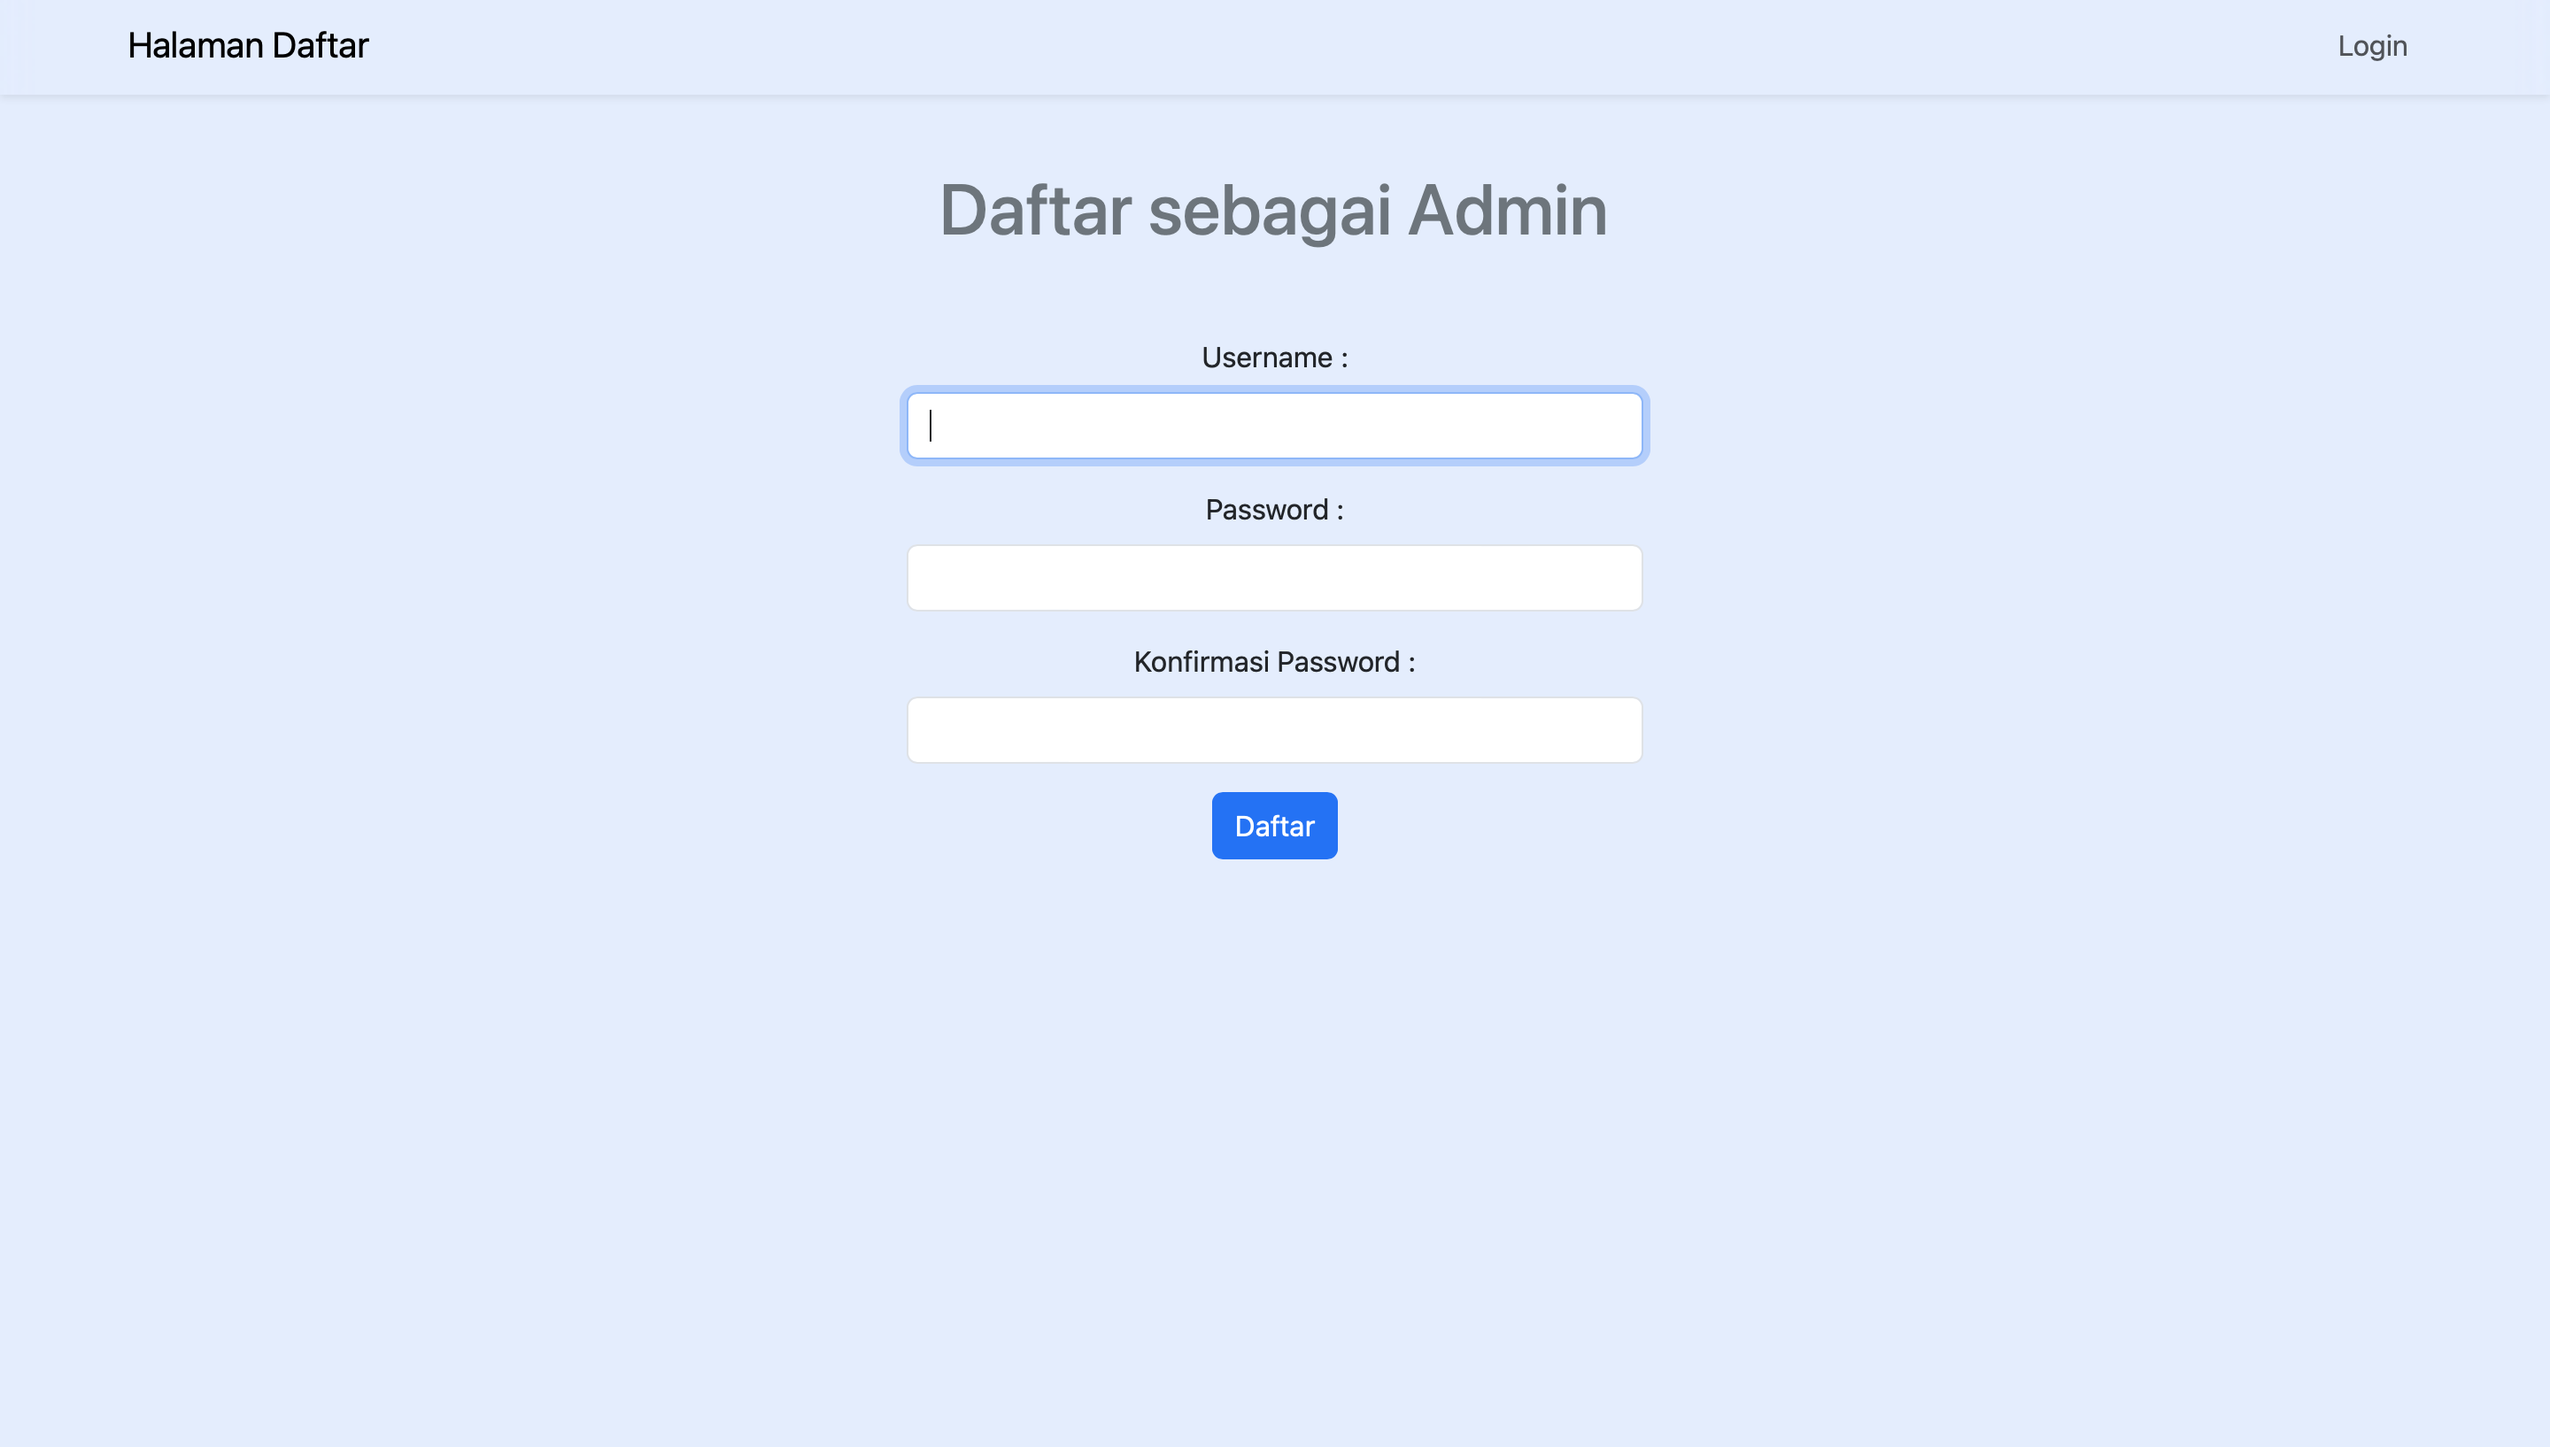
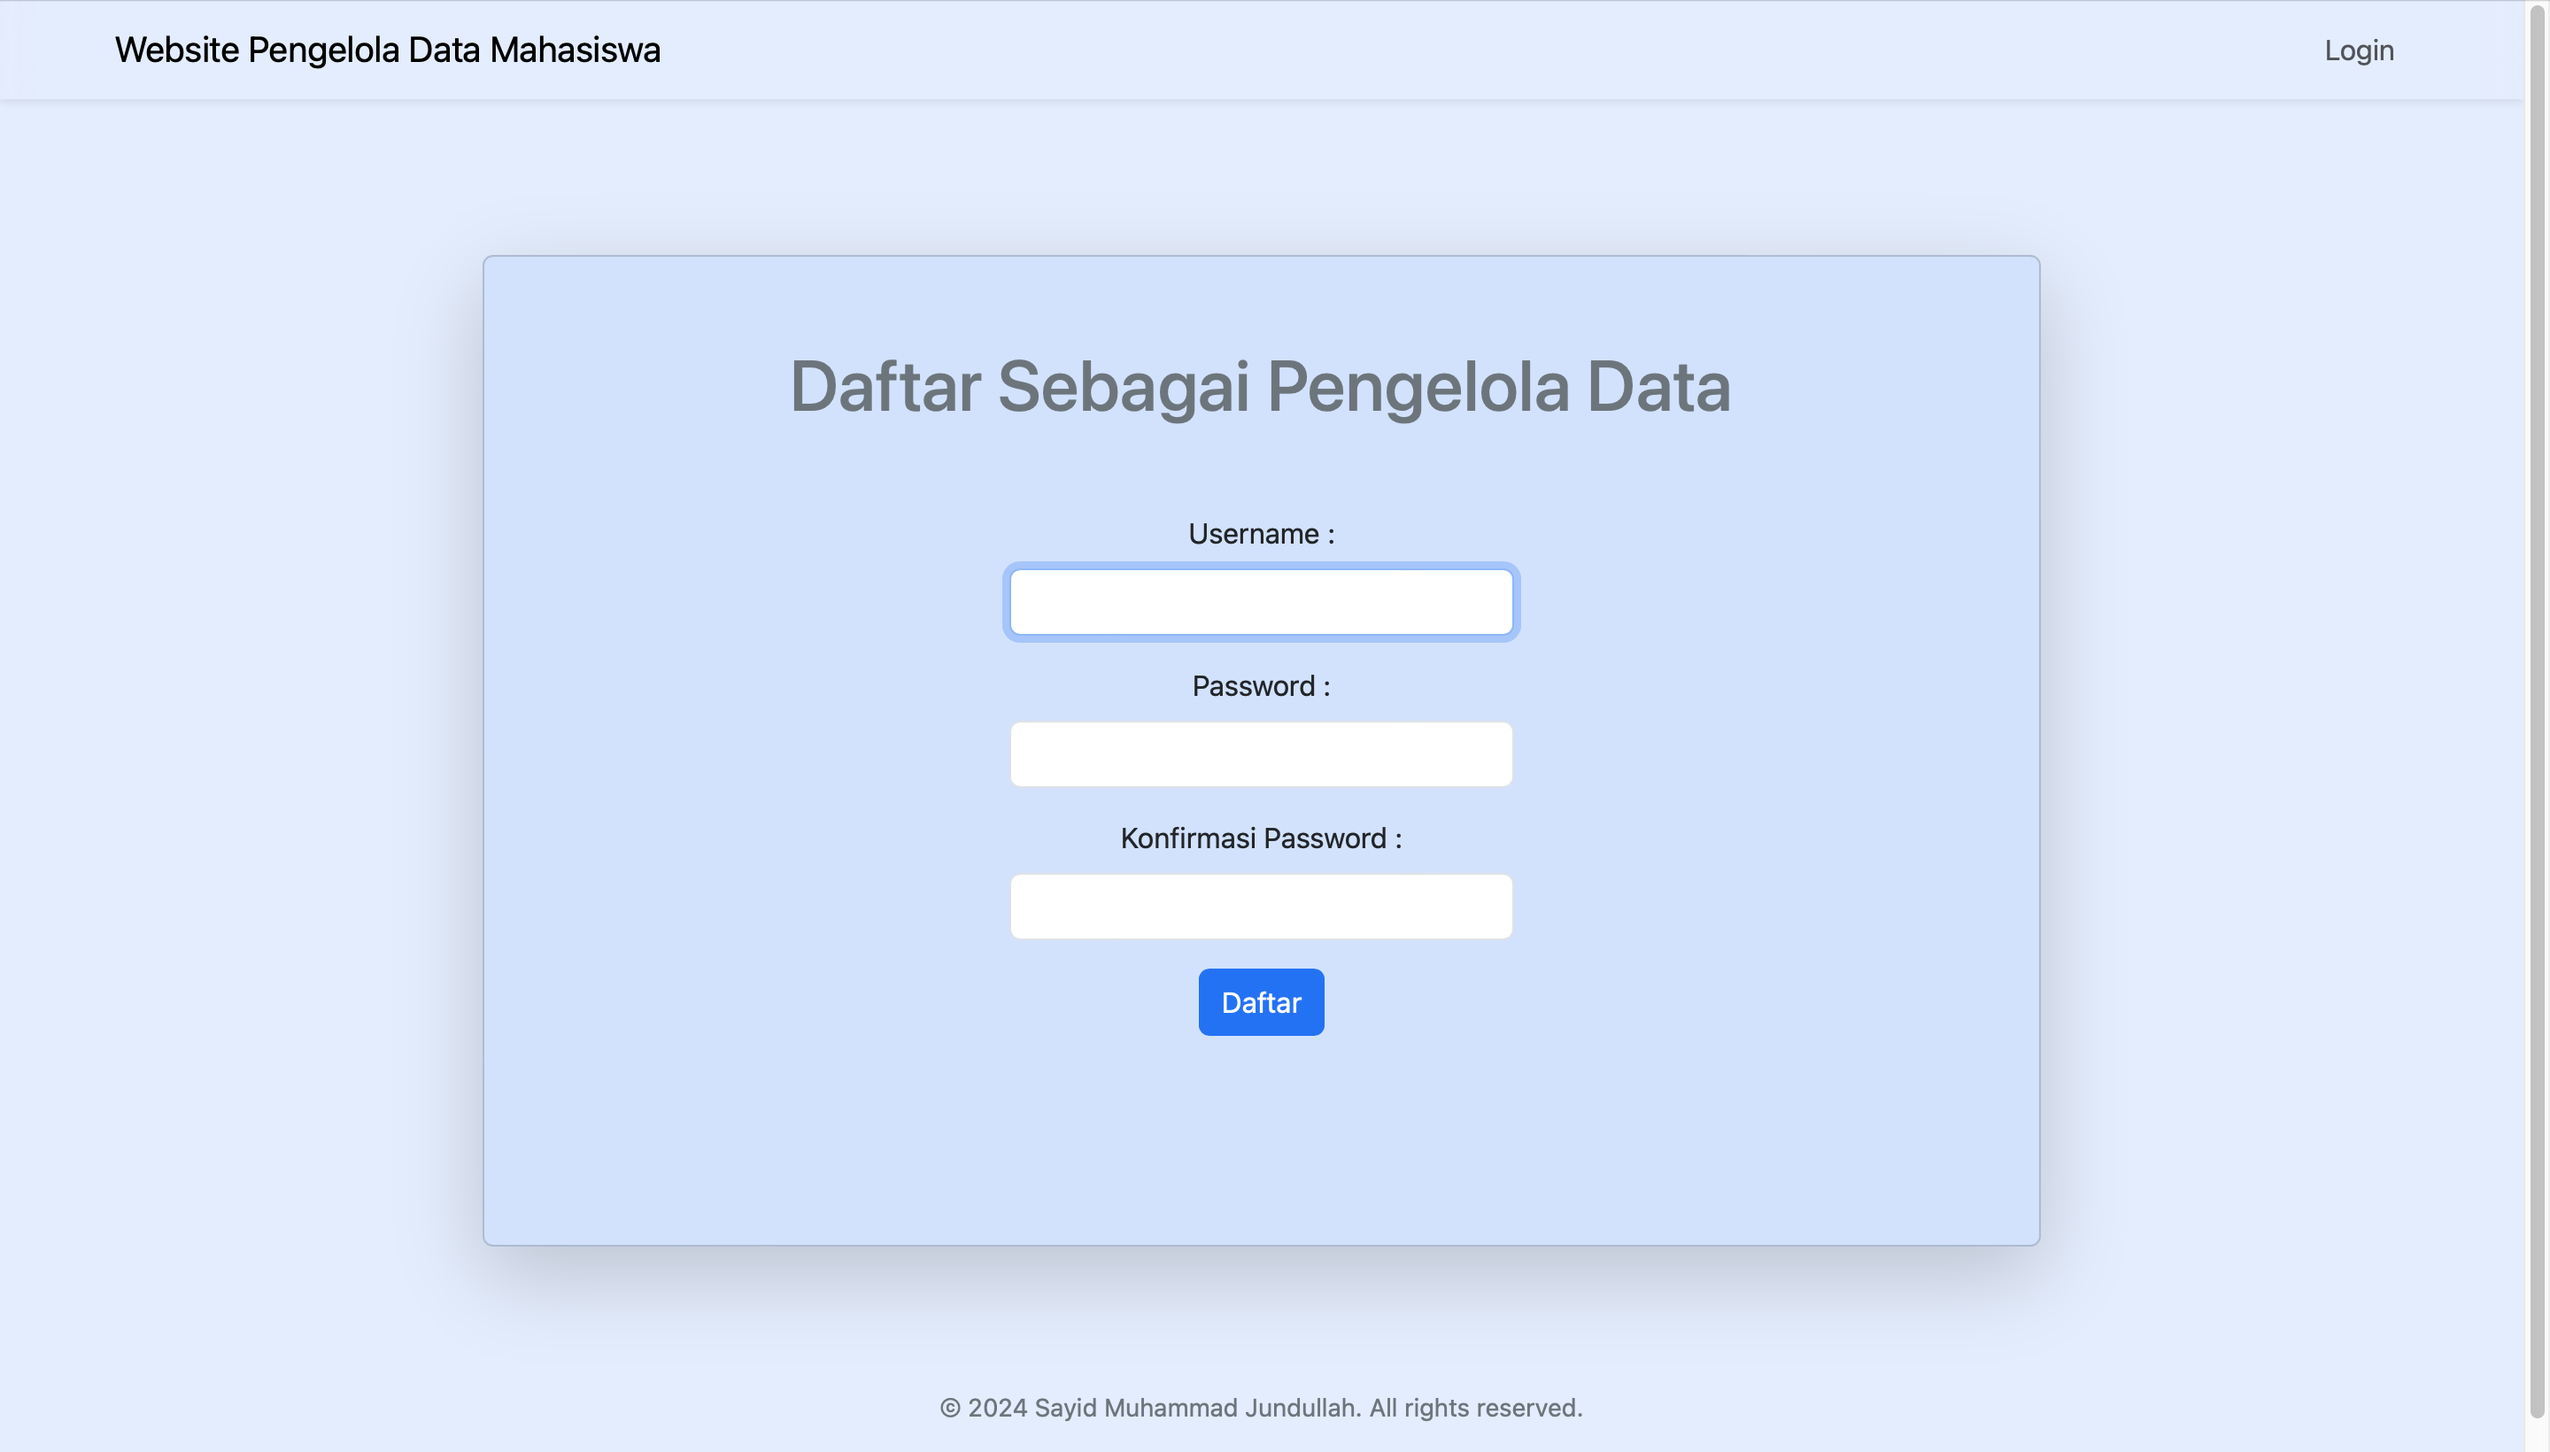
update

diff --git a/Web Pengelola Data Mahasiswa/login.php b/Web Pengelola Data Mahasiswa/login.php
@@ -66,10 +66,7 @@ if (isset($_POST['masuk'])) {
     <!-- Navbar -->
     <nav class="navbar navbar-expand-lg navbar-light bg-transparent shadow-sm fixed-top">
       <div class="container">
-        <a class="navbar-brand" href="#">Halaman Login</a>
-        <button class="navbar-toggler" type="button" data-bs-toggle="collapse" data-bs-target="#navbarNav" aria-controls="navbarNav" aria-expanded="false" aria-label="Toggle navigation">
-          <span class="navbar-toggler-icon"></span>
-        </button>
+        <a class="navbar-brand" href="login.php">Website Pengelola Data Mahasiswa</a>
         <div class="collapse navbar-collapse" id="navbarNav">
           <ul class="navbar-nav ms-auto">
             <li class="nav-item">
@@ -85,31 +82,38 @@ if (isset($_POST['masuk'])) {
 	<section class="mt-5 pt-5">
 		<div class="container">
 			<div class="row justify-content-center">
-                <h1 class="mb-5 text-secondary">Masuk sebagai Admin</h1>
-				<div class="col-4 align-self-center">
-                    <?php if (isset($error)) : ?>
-                        <p style="color: red; font-style: italic;" >Username atau Password tidak sesuai !</p>    
-                    <?php endif; ?>
-                <form actions="" method="post">
-                    <div class="mb-3">
-                        <label for="username" class="form-label">Username :</label>
-                        <input type="username" class="form-control" id="username" name="username" autofocus>
+                <div class="mt-5 shadow-lg card bg-primary-subtle" style="width: 55rem; height: 30rem;">
+                    <h1 class="mb-5 mt-5 text-secondary">Masuk Sebagai Pengelola Data</h1>
+                    <div class="col-4 align-self-center">
+                        <?php if (isset($error)) : ?>
+                            <p style="color: red; font-style: italic;" >Username atau Password tidak sesuai !</p>    
+                        <?php endif; ?>
+                        <form actions="" method="post">
+                            <div class="mb-3">
+                                <label for="username" class="form-label">Username :</label>
+                                <input type="username" class="form-control" id="username" name="username" autofocus>
+                            </div>
+                            <div class="mb-3">
+                                <label for="password" class="form-label">Password :</label>
+                                <input type="password" class="form-control" id="password" name="password">
+                            </div>
+                            <div class="mb-3 form-check d-flex align-items-center">
+                                <input type="checkbox" class="form-check-input me-2" id="remember" name="remember">
+                                <label class="form-check-label" for="remember">Ingat Saya</label>
+                            </div>
+                            <button type="submit" class="btn btn-primary" name="masuk">Masuk</button>
+                        </form>
                     </div>
-                    <div class="mb-3">
-                        <label for="password" class="form-label">Password :</label>
-                        <input type="password" class="form-control" id="password" name="password">
-                    </div>
-                    <div class="mb-3 form-check d-flex align-items-center">
-                        <input type="checkbox" class="form-check-input me-2" id="remember" name="remember">
-                        <label class="form-check-label" for="remember">Ingat Saya</label>
-                    </div>
-                    <button type="submit" class="btn btn-primary" name="masuk">Masuk</button>
-                    </form>
-				</div>
+                </div>
 			</div>
 		</div>
 	</section>
 	<!-- Akhir Login Form -->
+
+    <!-- Footer -->
+    <p style="margin-bottom: -1px; padding-top: 10rem" class="text-secondary small text-center">© 2024 Sayid Muhammad Jundullah. All rights reserved.</p>
+    <!-- Footer -->
+
 </body>
 </html>
 

diff --git a/Web Pengelola Data Mahasiswa/index.php b/Web Pengelola Data Mahasiswa/index.php
@@ -71,7 +71,7 @@ if( isset($_POST["cari"])) {
 		</form>
 		<!-- Alkir Search -->
 		 
-		<table class="table table-striped-columns">
+		<table class="table table-striped-columns" style="margin-left: 3px;">
 			<tr> 
 				<th>No</th>
 				<th>NIM</th>
@@ -92,8 +92,8 @@ if( isset($_POST["cari"])) {
 					<td><?php echo $row["email"]?></td>
 					<td><img src="img/<?php echo $row["photo"]?>" class="rounded"></td> 
 					<td>
-						<button type="button" class="btn btn-secondary"><a style="text-decoration:none;" href="hapus.php?no=<?php echo $row["no"]?>" class="text-light">Hapus</a></button>
-						<button type="button" class="btn btn-primary"><a style="text-decoration:none;" href="ubah.php?no=<?php echo $row["no"]?>&nim=<?php echo $row["nim"]?>&nama=<?php echo $row["nama"]?>&alamat=<?php echo $row["alamat"]?>&email=<?php echo $row["email"]?>&foto=<?php echo $row["photo"]?>" class="text-light">Ubah</a></button>
+						<button type="button" class="btn btn-secondary"><a style="text-decoration: none;" href="hapus.php?no=<?php echo $row["no"]?>" class="text-light">Hapus</a></button>
+						<button type="button" class="btn btn-primary" style="margin-left: 5px;"><a style="text-decoration: none;" href="ubah.php?no=<?php echo $row["no"]?>&nim=<?php echo $row["nim"]?>&nama=<?php echo $row["nama"]?>&alamat=<?php echo $row["alamat"]?>&email=<?php echo $row["email"]?>&foto=<?php echo $row["photo"]?>" class="text-light">Ubah</a></button>
 					</td>
 				</tr>
 			<?php $i ++;?>
@@ -104,14 +104,14 @@ if( isset($_POST["cari"])) {
 	<!-- Akhir Data Mahasiswa -->
 	 
 	<!-- Social Media -->
-	<a class="sosmed" href="https://github.com/MuhammadJundullah/Belajar_PHP/tree/main/Web%20Pengelola%20Data%20Mahasiswa" target="_blank">
+	<a class="sosmed" href="https://github.com/MuhammadJundullah/Belajar_PHP/tree/main/Web%20Pengelola%20Data%20Mahasiswa" target="_blank" style="margin-left: 25px;">
     <img src="img/github.svg" alt="github" class="github-icon">
     <span class="github-text">Source Code</span>
 	</a>
 	<!-- Akhir Social Media -->
 
 	<!-- Footer -->
-	<p style="margin-bottom: -1px; padding-top: 1rem" class="text-secondary small text-center">© 2024 Ahmad. All right reserved</p>
+	<p style="margin-bottom: -1px; padding-top: 3rem" class="text-secondary small text-center">© 2024 Sayid Muhammad Jundullah. All rights reserved.</p>
 	<!-- Footer -->
 
 </body>

diff --git a/Web Pengelola Data Mahasiswa/registrasi.php b/Web Pengelola Data Mahasiswa/registrasi.php
@@ -35,7 +35,7 @@ if ( isset($_POST['register']) ) {
     <!-- Navbar -->
     <nav class="navbar navbar-expand-lg navbar-light bg-transparent shadow-sm fixed-top">
       <div class="container">
-        <a class="navbar-brand" href="#">Halaman Daftar</a>
+        <a class="navbar-brand" href="registrasi.php">Website Pengelola Data Mahasiswa</a>
         <button class="navbar-toggler" type="button" data-bs-toggle="collapse" data-bs-target="#navbarNav" aria-controls="navbarNav" aria-expanded="false" aria-label="Toggle navigation">
           <span class="navbar-toggler-icon"></span>
         </button>
@@ -54,7 +54,8 @@ if ( isset($_POST['register']) ) {
 	<section class="mt-5 pt-5">
 		<div class="container">
 			<div class="row justify-content-center">
-                <h1 class="mb-5 text-secondary">Daftar sebagai Admin</h1>
+            <div class="shadow-lg card bg-primary-subtle mt-5" style="width: 55rem; height: 35rem;">
+                <h1 class="mb-5 mt-5 text-secondary">Daftar Sebagai Pengelola Data</h1>
 				<div class="col-4 align-self-center">
                 <form actions="" method="post">
                     <div class="mb-3">
@@ -72,10 +73,16 @@ if ( isset($_POST['register']) ) {
                     <button type="submit" class="btn btn-primary" name="register">Daftar</button>
                     </form>
 				</div>
+                </div>
 			</div>
 		</div>
 	</section>
 	<!-- Akhir Register Form -->
+
+    <!-- Footer -->
+    <p style="margin-bottom: -1px; padding-top: 5rem" class="text-secondary small text-center">© 2024 Sayid Muhammad Jundullah. All rights reserved.</p>
+    <!-- Footer -->
+
 </body>
 </html>
 

diff --git a/Web Pengelola Data Mahasiswa/ubah.php b/Web Pengelola Data Mahasiswa/ubah.php
@@ -94,13 +94,18 @@ if( isset($_POST["tombol"])) {
             <br><img class="rounded mb-3" src="img/<?php echo $foto;?>" alt="Foto sebelumnya">
 						<input type="file" class="form-control" name="foto" id="foto">
 					</div>
-					<button type="submit" class="btn btn-primary" name="tombol">Submit</button>
+					<button type="submit" class="btn btn-primary" name="tombol">Ubah</button>
 					</form>
 				</div>
 			</div>
 		</div>
 	</section>
 	<!-- Akhir Data Mahasiswa -->
+
+  <!-- Footer -->
+  <p style="margin-bottom: -1px; padding-top: 2rem" class="text-secondary small text-center">© 2024 Sayid Muhammad Jundullah. All rights reserved.</p>
+  <!-- Footer -->
+
 </body>
 </html>
 

diff --git a/Web Pengelola Data Mahasiswa/tambah.php b/Web Pengelola Data Mahasiswa/tambah.php
@@ -88,5 +88,10 @@ if( isset($_POST["tombol"])) {
 		</div>
 	</section>
 	<!-- Akhir Data Mahasiswa -->
+
+	<!-- Footer -->
+	<p style="margin-bottom: -1px; padding-top: 13rem" class="text-secondary small text-center">© 2024 Sayid Muhammad Jundullah. All rights reserved.</p>
+	<!-- Footer -->
+
 </body>
 </html>

diff --git a/Web Pengelola Data Mahasiswa/Readme.md b/Web Pengelola Data Mahasiswa/Readme.md
@@ -1,15 +1,6 @@
-Website untuk menyimpan data mahasiswa menggunakan framework bootstrap 5, PHP dan Mysql.<br>
-Username : admin<br>
-password : 123<br>
-<p>Kunjungi Website <a href="http://muhammadjundullah.great-site.net/index.php" target="_blank">disini</a>.</p>
+Website untuk menyimpan data mahasiswa menggunakan framework bootstrap 5 dan PHP.
 
-Pages :
-
-- Daftar/ Regist sebagai admin
-  <img src="view/Register.png">
-
-- Masuk/ Login sebagai admin.
-  <img src="view/Login.png">
+Fitur :
 
 - Menampilkan daftar data mahasiswa.
   <img src="view/Daftar.png">
